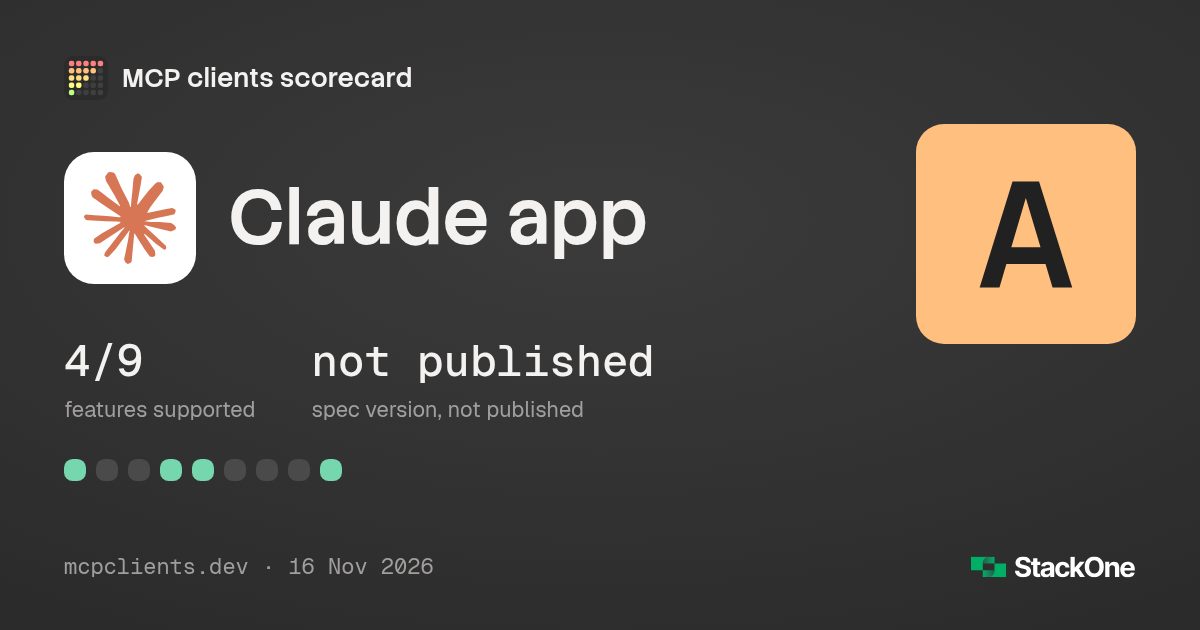
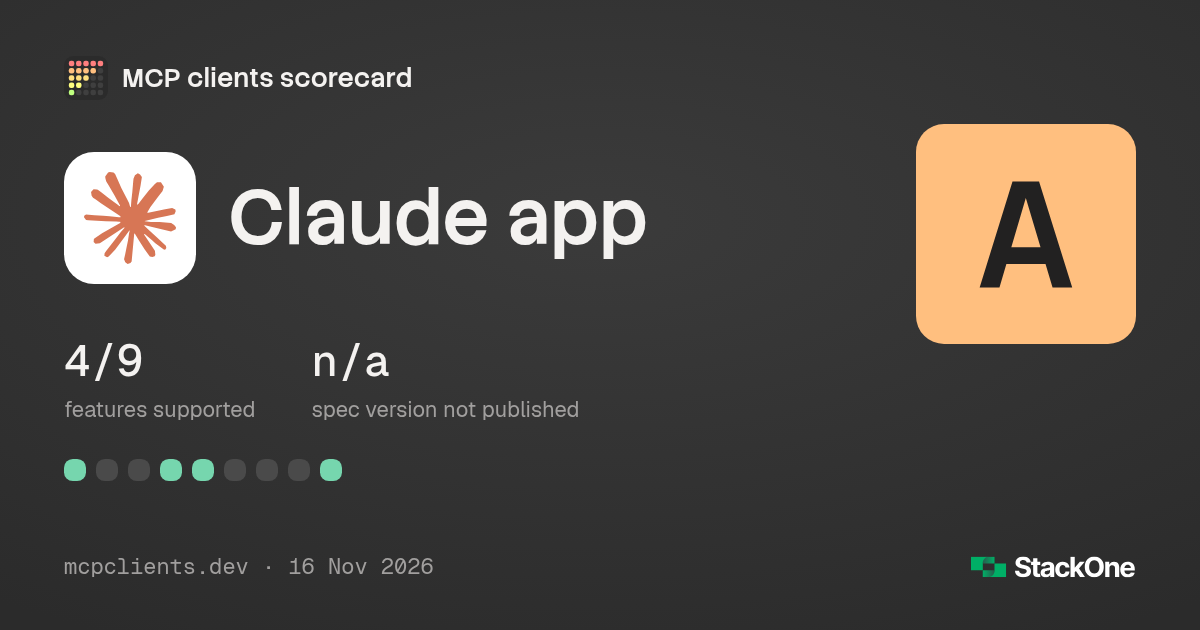
fix(site): review fixes for summaries, FAQ and worker error responses
- Clients with no published spec version (Claude app) no longer read
  "not published (not published)" in the summary, FAQ and share card
- FAQ handles an empty S tier and uses "supports" for a single client
- ItemList order is ascending (position 1 is the best client)
- A missing share card fails the site build instead of falling back
- The worker only applies the Markdown type, long cache, CORS and Link
  to successful responses, and rebuilds the Markdown URL from the origin
- Tests cover worker 404s and the summary wording

Changed region(s): [[0.2775, 0.5429, 0.555, 0.6032], [0.37, 0.6333, 0.4933, 0.6635]]

diff --git a/worker/index.js b/worker/index.js
@@ -10,20 +10,23 @@ export default {
     const url = new URL(request.url);
     const isPage = url.pathname.endsWith('/');
     const markdown = isPage && /\btext\/markdown\b/.test(request.headers.get('Accept') || '');
-    const asset = await env.ASSETS.fetch(markdown ? new Request(new URL(`${url.pathname}index.md`, url), request) : request);
+    // Rebuilt from the origin, so a path like //other.host/ cannot turn into another host
+    const mdUrl = new URL(`/${url.pathname.replace(/^\/+/, '')}index.md`, url.origin);
+    const asset = await env.ASSETS.fetch(markdown ? new Request(mdUrl, request) : request);
     const res = new Response(asset.body, asset);
     const h = res.headers;
     h.set('X-Content-Type-Options', 'nosniff');
     h.set('Referrer-Policy', 'strict-origin-when-cross-origin');
     h.set('Content-Security-Policy', CSP);
-    if (url.pathname.endsWith('.md') || (markdown && asset.ok)) h.set('Content-Type', 'text/markdown; charset=utf-8');
+    if (asset.ok && (markdown || url.pathname.endsWith('.md'))) h.set('Content-Type', 'text/markdown; charset=utf-8');
     if (isPage) {
       h.append('Vary', 'Accept');
       if (asset.ok && !markdown) h.set('Link', `<${url.pathname}index.md>; rel="alternate"; type="text/markdown"`);
     }
     // style.css and app.js carry a content hash in ?v=, fonts never change
-    if (url.searchParams.has('v') || url.pathname.startsWith('/assets/fonts/')) h.set('Cache-Control', 'public, max-age=31536000, immutable');
-    if (OPEN.test(url.pathname)) {
+    const hashed = (/^\/(style\.css|app\.js)$/.test(url.pathname) && url.searchParams.has('v')) || url.pathname.startsWith('/assets/fonts/');
+    if (asset.ok && hashed) h.set('Cache-Control', 'public, max-age=31536000, immutable');
+    if (asset.ok && OPEN.test(url.pathname)) {
       h.set('Access-Control-Allow-Origin', '*');
       h.set('Cache-Control', 'public, max-age=3600');
     }
